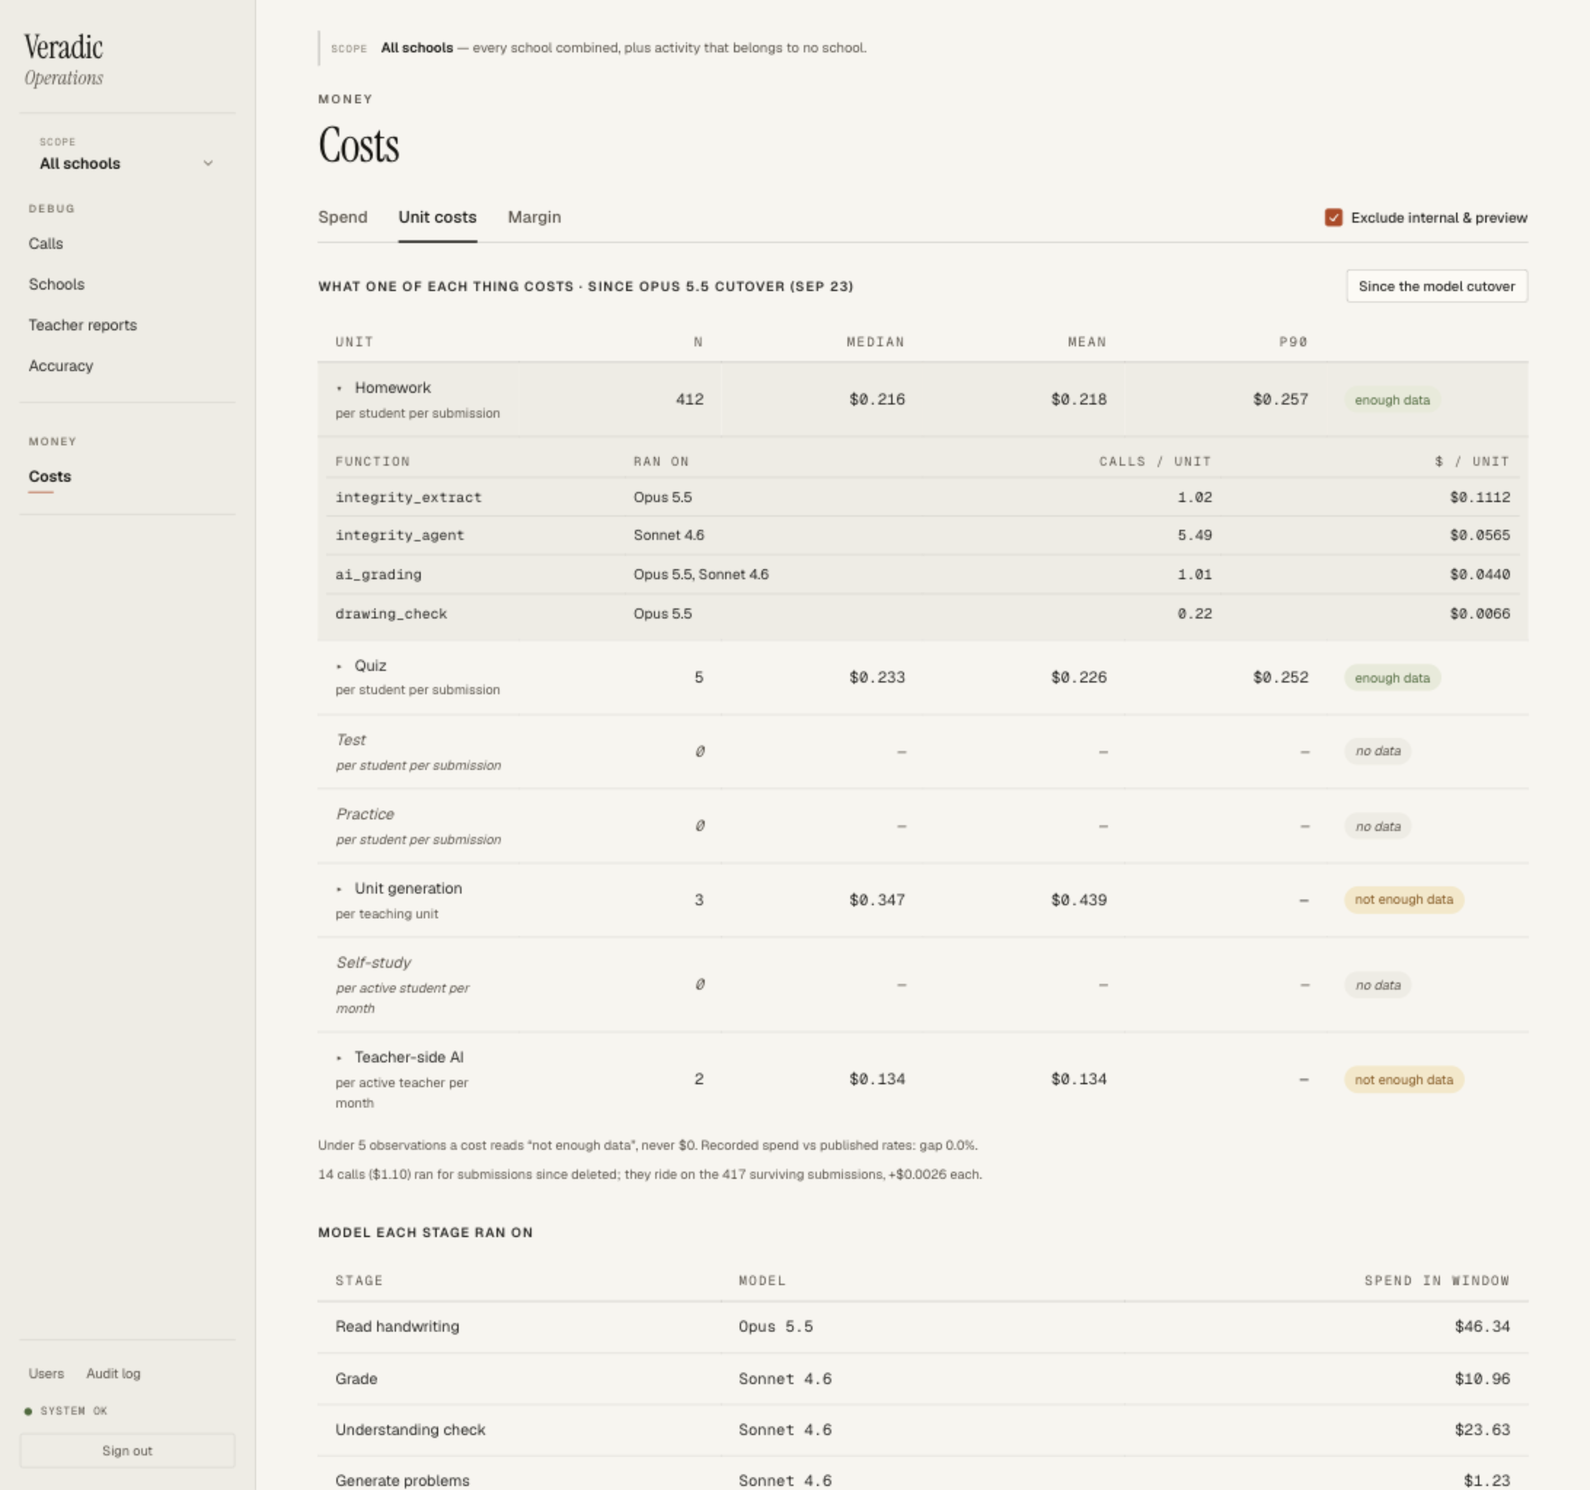
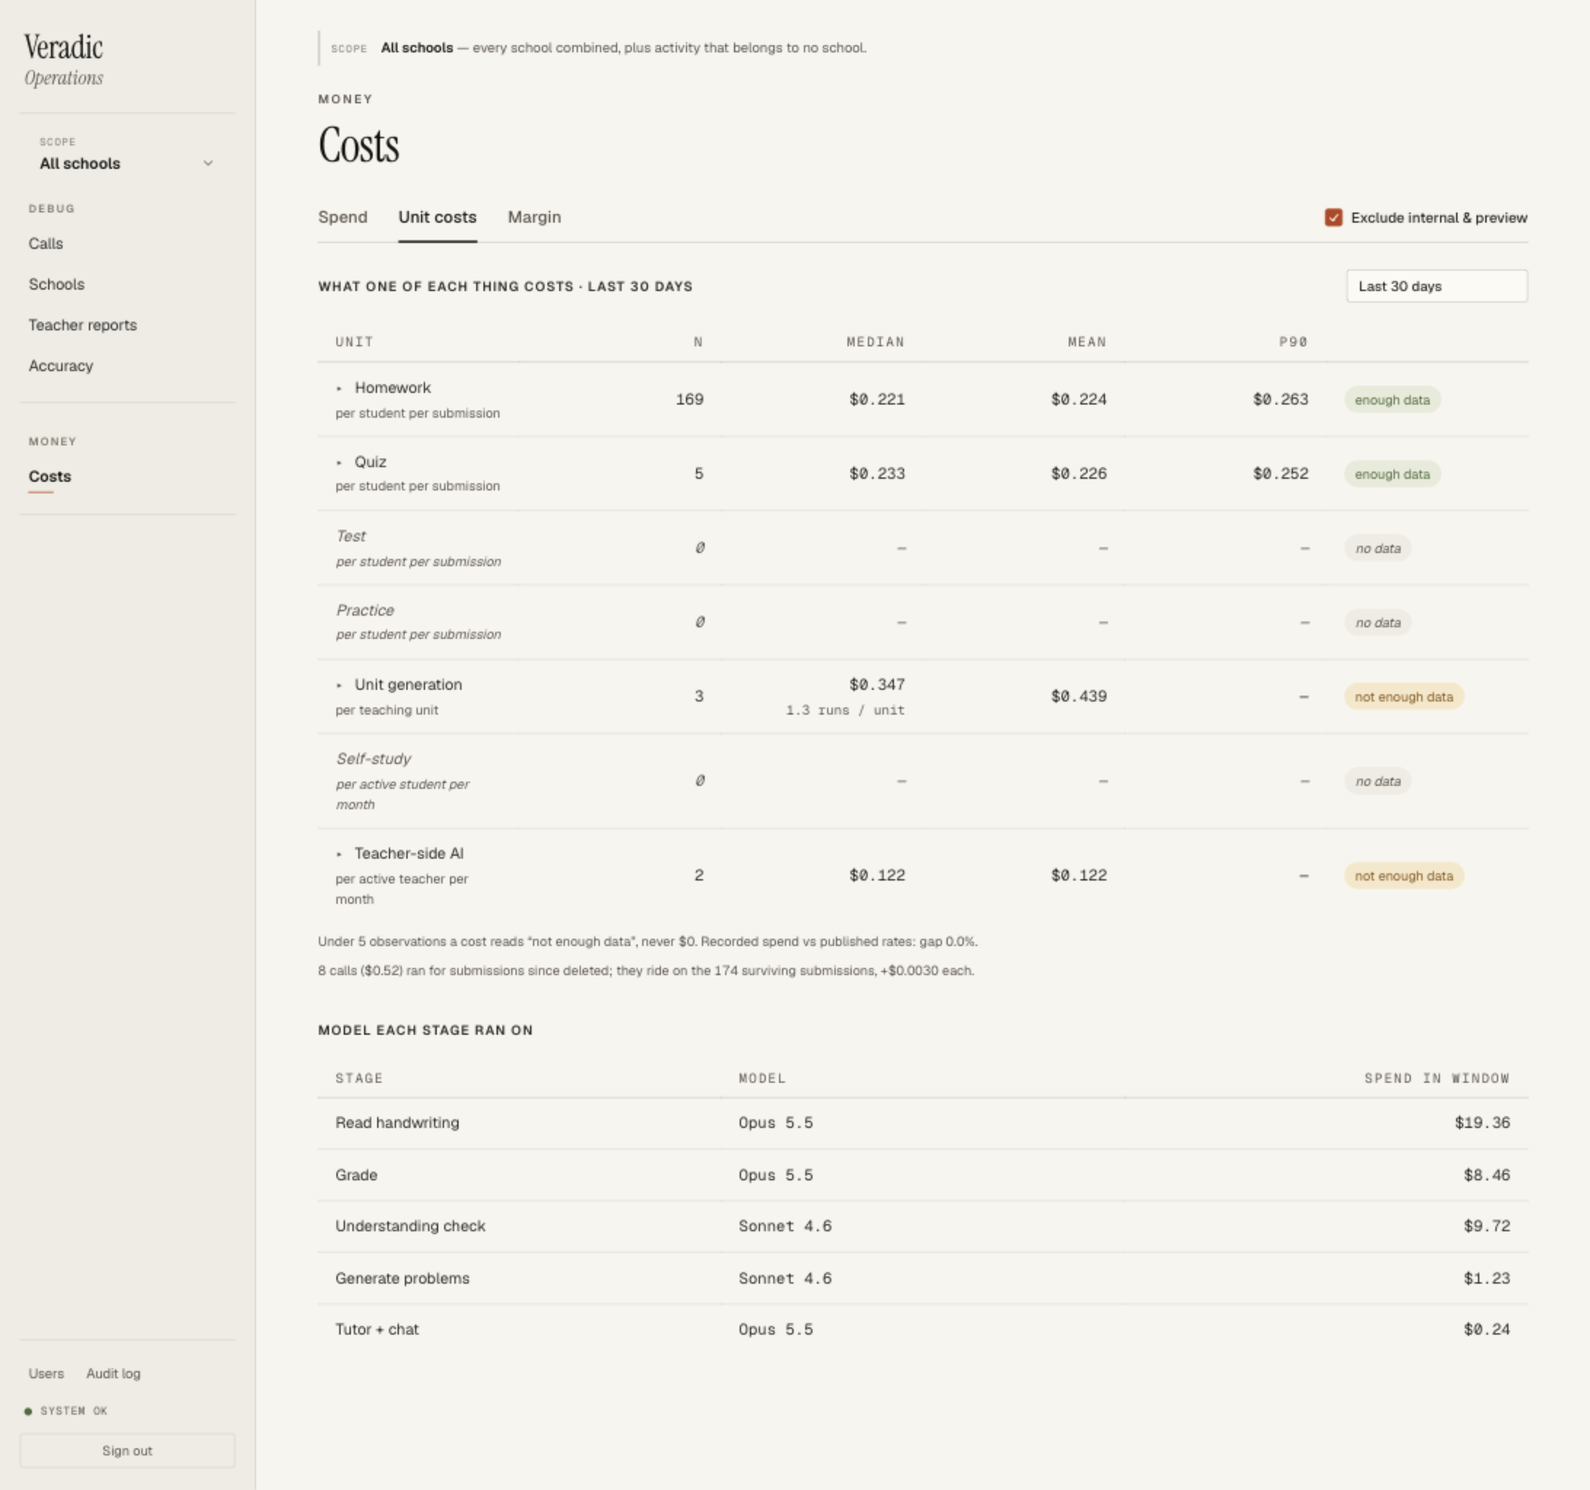
fix(dashboard): review round 1 — say when no rate was measured, thin only where used, fields that clear, a window the picker offers
- a window with no measured submission rates says the margin leaves out
  per-submission cost, rather than showing a quiet near-100%
- the too-few-observations note fires only for lines in use
- number fields keep an emptied or half-typed value until it's a number
- days outside the picker falls back to the default window
- busy cue and heading follow the data on screen during a refetch
- whole students per teacher, which the slider can hold
- generation shows runs per unit next to the median

diff --git a/dashboard/src/pages/costs/useUnitEconomics.ts b/dashboard/src/pages/costs/useUnitEconomics.ts
@@ -12,10 +12,13 @@ export function useUnitEconomics(
   includeInternal: boolean,
   days: string,
 ) {
-  const [data, setData] = useState<UnitEconomicsData | null>(null);
+  // The data and the request it answers, kept together: the heading and
+  // the busy cue read off what's on screen, not what was just asked for.
+  const [loaded, setLoaded] = useState<{ data: UnitEconomicsData; key: string; days: string } | null>(null);
   const [error, setError] = useState<string | null>(null);
   const [attempt, setAttempt] = useState(0);
   const scopeKey = JSON.stringify(scopeParams);
+  const key = `${scopeKey}|${includeInternal}|${days}`;
 
   useEffect(() => {
     let cancelled = false;
@@ -26,28 +29,16 @@ export function useUnitEconomics(
     if (days) q.days = days;
     costsApi
       .unitEconomics(q)
-      .then((d) => { if (!cancelled) { setData(d); setError(null); } })
+      .then((d) => { if (!cancelled) { setLoaded({ data: d, key: `${scopeKey}|${includeInternal}|${days}`, days }); setError(null); } })
       .catch((e: Error) => { if (!cancelled) setError(e.message); });
     return () => { cancelled = true; };
   }, [scopeKey, includeInternal, days, attempt]);
 
-  return { data, error, retry: () => setAttempt((n) => n + 1) };
-}
-
-export const WINDOWS = [
-  { value: "", label: "Since the model cutover" },
-  { value: "7", label: "Last 7 days" },
-  { value: "30", label: "Last 30 days" },
-  { value: "90", label: "Last 90 days" },
-] as const;
-
-/** "since Opus 5.5 cutover (Nov 4)" / "last 30 days" — the section heading's tail. */
-export function windowLabel(d: UnitEconomicsData, days: string, modelLabel: (id: string) => string): string {
-  if (days) return `last ${days} days`;
-  const start = new Date(d.window.start).toLocaleDateString("en-US", {
-    month: "short", day: "numeric", timeZone: "UTC",
-  });
-  return d.window.cutover_model
-    ? `since ${modelLabel(d.window.cutover_model)} cutover (${start})`
-    : `since ${start}`;
+  return {
+    data: loaded?.data ?? null,
+    loadedDays: loaded?.days ?? "",
+    stale: loaded !== null && loaded.key !== key,
+    error,
+    retry: () => setAttempt((n) => n + 1),
+  };
 }

diff --git a/dashboard/src/pages/costs/marginScenario.test.ts b/dashboard/src/pages/costs/marginScenario.test.ts
@@ -6,8 +6,10 @@ import assert from "node:assert/strict";
 import { test } from "node:test";
 import type { CatalogModel, UnitEconomicsData } from "../../lib/costsApi.ts";
 import {
-  DEFAULT_RATE_CARD, cardPriceFor, defaultModels, readRateCard, scenarioDefaults, stageOptions,
+  DEFAULT_RATE_CARD, cardPriceFor, defaultModels, ratesUnmeasured, readRateCard, scenarioDefaults,
+  stageOptions,
 } from "./marginScenario.ts";
+import { windowDays } from "./unitWindows.ts";
 
 const model = (id: string, is_configured = false): CatalogModel => ({
   id, label: id, input_per_mtok: 1, output_per_mtok: 1, is_configured,
@@ -58,7 +60,7 @@ test("homeworks per month start at the measured rate, not a hardcoded 8", () => 
   assert.deepEqual(scenarioDefaults(data({
     submissions_per_student_month: { homework: 1.4, quiz: 0.0326, test: 0, practice: 0 },
   })).quiz, { value: 0.03, measured: true });
-  assert.deepEqual(d.studentsPerTeacher, { value: 30.7, measured: true });
+  assert.deepEqual(d.studentsPerTeacher, { value: 31, measured: true });
 });
 
 test("a short window's rates are not taken as measured", () => {
@@ -112,4 +114,17 @@ test("the card prices by enrollment tier and subject count", () => {
   assert.equal(cardPriceFor(DEFAULT_RATE_CARD, 92, 1), 32);
   assert.equal(cardPriceFor(DEFAULT_RATE_CARD, 300, 2), 22);
   assert.equal(cardPriceFor(DEFAULT_RATE_CARD, 5000, 9), 14);
+});
+
+test("no measured rates says so, and whole students per teacher", () => {
+  assert.equal(ratesUnmeasured(data()), false);
+  assert.equal(ratesUnmeasured(data({ submissions_per_student_month: null })), true);
+  assert.equal(ratesUnmeasured(data({ window_too_short: true })), true);
+  // The slider steps by 1: a 30.67 default it can't hold is lost on touch.
+  assert.equal(scenarioDefaults(data()).studentsPerTeacher.value, 31);
+});
+
+test("a days value the picker doesn't offer reads as the default window", () => {
+  for (const bad of ["abc", "0", "5", "-30", null]) assert.equal(windowDays(bad), "");
+  for (const ok of ["7", "30", "90", ""]) assert.equal(windowDays(ok), ok);
 });

diff --git a/dashboard/src/pages/costs/MarginTab.tsx b/dashboard/src/pages/costs/MarginTab.tsx
@@ -4,7 +4,8 @@ import StatTile from "../../components/StatTile";
 import type { Stage, UnitEconomicsData } from "../../lib/costsApi";
 import { computeMargin, marginAtPrice, type ModelChoice, type Scenario } from "./marginModel";
 import {
-  STAGES, cardPriceFor, defaultModels, readRateCard, scenarioDefaults, stageOptions, type NumKey,
+  STAGES, cardPriceFor, defaultModels, ratesUnmeasured, readRateCard, scenarioDefaults, stageOptions,
+  type NumKey,
 } from "./marginScenario";
 import PricingPanel from "./PricingPanel";
 import { usd } from "./spendFormat";
@@ -18,6 +19,8 @@ import { usd } from "./spendFormat";
  */
 
 interface Slider { key: NumKey; label: string; max: number; step: number }
+
+const RATE_KEYS = ["homework", "quiz", "test", "practice"] as const;
 
 const USAGE: Slider[] = [
   { key: "homework", label: "Homeworks per student per month", max: 12, step: 0.01 },
@@ -79,6 +82,8 @@ export default function MarginTab({ data, modelLabel }: Props) {
   const scenario: Scenario = { ...nums, pricePerStudent: cardPrice, models };
   const r = computeMargin(data, scenario);
   const months = Math.max(scenario.schoolYearMonths, 1);
+  // Until the operator sets a rate themselves.
+  const noRates = ratesUnmeasured(data) && RATE_KEYS.every((k) => params.get(k) === null);
 
   return (
     <div className="costs-margin">
@@ -101,6 +106,15 @@ export default function MarginTab({ data, modelLabel }: Props) {
           sub={`${r.overCap ? "over" : "vs"} the ${usd(scenario.fairUseCap)} cap`}
         />
       </div>
+
+      {noRates && (
+        <div className="costs-note warn" role="note">
+          This window measured no submission rates
+          {data.measured.window_too_short ? " (it's under a week)" : " (no one handed anything in)"}, so usage
+          starts at 0 and the margin leaves out grading, reading and integrity cost. Set the rates below or pick a
+          longer window before reading it.
+        </div>
+      )}
 
       {(r.anyThin || r.anyUnpriced || r.excluded.length > 0) && (
         <div className="costs-note warn" role="note">

diff --git a/dashboard/src/pages/costs/PricingPanel.tsx b/dashboard/src/pages/costs/PricingPanel.tsx
@@ -1,4 +1,5 @@
 import { DEFAULT_RATE_CARD, TIER_LABELS, subjectIndex, tierFor, type NumKey } from "./marginScenario";
+import NumberField from "./NumberField";
 import { usd } from "./spendFormat";
 
 /**
@@ -35,7 +36,7 @@ export default function PricingPanel({
 
   const setRate = (ti: number, si: number, v: string) => {
     const next = rateCard.map((row) => [...row]);
-    next[ti][si] = Number(v) || 0;
+    next[ti][si] = Math.max(Number(v), 0);
     onRates(JSON.stringify(next) === JSON.stringify(DEFAULT_RATE_CARD) ? null : next);
   };
 
@@ -61,12 +62,12 @@ export default function PricingPanel({
                 <td>{TIER_LABELS[ti]}</td>
                 {row.map((v, si) => (
                   <td key={si} className="num">
-                    <input
-                      type="number"
+                    <NumberField
                       aria-label={`${TIER_LABELS[ti]} students, ${si + 1} subject${si ? "s" : ""}`}
                       className={ti === tier && si === subj ? "on" : ""}
+                      min={0}
                       value={v}
-                      onChange={(e) => setRate(ti, si, e.target.value)}
+                      onCommit={(x) => setRate(ti, si, x)}
                     />
                   </td>
                 ))}
@@ -78,10 +79,10 @@ export default function PricingPanel({
           {TERMS.map((t) => (
             <label key={t.key}>
               <span className="costs-caption">{t.label}</span>
-              <input
-                type="number" inputMode="decimal" min={t.key === "subjects" ? 1 : 0} step={t.step}
+              <NumberField
+                inputMode="decimal" min={t.key === "subjects" ? 1 : 0} step={t.step}
                 value={nums[t.key]}
-                onChange={(e) => onNum(t.key, e.target.value)}
+                onCommit={(v) => onNum(t.key, v)}
               />
             </label>
           ))}

diff --git a/dashboard/src/pages/costs/UnitEconomicsTabs.tsx b/dashboard/src/pages/costs/UnitEconomicsTabs.tsx
@@ -2,7 +2,8 @@ import { useSearchParams } from "react-router-dom";
 import ErrorState from "../../components/ErrorState";
 import MarginTab from "./MarginTab";
 import UnitCostsTab from "./UnitCostsTab";
-import { WINDOWS, useUnitEconomics, windowLabel } from "./useUnitEconomics";
+import { useUnitEconomics } from "./useUnitEconomics";
+import { WINDOWS, windowDays, windowLabel } from "./unitWindows";
 
 /**
  * The Unit costs and Margin tabs share one /admin/unit-economics fetch and
@@ -19,8 +20,8 @@ interface Props {
 
 export default function UnitEconomicsTabs({ tab, scopeParams, includeInternal }: Props) {
   const [params, setParams] = useSearchParams();
-  const days = params.get("days") ?? "";
-  const { data, error, retry } = useUnitEconomics(scopeParams, includeInternal, days);
+  const days = windowDays(params.get("days"));
+  const { data, loadedDays, stale, error, retry } = useUnitEconomics(scopeParams, includeInternal, days);
 
   if (error) return <ErrorState message={error} onRetry={retry} />;
   if (!data) return <p className="loading">Loading…</p>;
@@ -36,11 +37,11 @@ export default function UnitEconomicsTabs({ tab, scopeParams, includeInternal }:
   };
 
   return (
-    <div className="costs-section">
+    <div className={`costs-section costs-unit-economics${stale ? " stale" : ""}`} aria-busy={stale}>
       <div className="costs-section-head">
         <h3>
           {tab === "units" ? "What one of each thing costs" : "Margin simulator"} ·{" "}
-          {windowLabel(data, days, modelLabel)}
+          {windowLabel(data, loadedDays, modelLabel)}
         </h3>
         <select aria-label="Window" value={days} onChange={(e) => setDays(e.target.value)}>
           {WINDOWS.map((w) => <option key={w.value} value={w.value}>{w.label}</option>)}

diff --git a/dashboard/src/pages/costs/marginModel.ts b/dashboard/src/pages/costs/marginModel.ts
@@ -138,6 +138,7 @@ export function computeMargin(
   const lines: CostLine[] = [];
   let anyUnpriced = false;
   let anyThin = false;
+  const idle = new Set<string>();
 
   // 1. Per-submission work — paid for every student, every time.
   for (const kind of SUBMISSION_KINDS) {
@@ -152,6 +153,7 @@ export function computeMargin(
     // No measurement at all → contribute nothing, but say so rather
     // than let a missing bucket read as "free".
     const thin = !unit || !unit.sufficient;
+    if (perMonth <= 0) idle.add(`submission:${kind}`);
     if (perMonth > 0 && (unpriced || thin)) {
       anyUnpriced = anyUnpriced || unpriced;
       anyThin = anyThin || thin;
@@ -176,6 +178,7 @@ export function computeMargin(
   const classSize = Math.max(s.studentsPerClass, 1);
   const unitsPerMonth = Math.max(s.unitsPerYear, 0) / schoolYearMonths;
   const genThin = !genUnit || !genUnit.sufficient;
+  if (s.unitsPerYear <= 0) idle.add("generation:unit");
   lines.push({
     key: "generation:unit",
     label: "unit generation",
@@ -230,9 +233,12 @@ export function computeMargin(
   // that is BOTH thin and short would otherwise report only the window.
   // The two need different actions: collect more data, or widen the
   // window.
+  // Only where the line is in use: a quiz rate of 0 with no quizzes
+  // measured costs nothing, and flagging it put the warning on every
+  // scenario, which teaches people to ignore it.
   for (const line of lines) {
     const unit = unitOf(data, line.key);
-    line.thin = Boolean(unit) && unit!.n < data.min_sample;
+    line.thin = !idle.has(line.key) && Boolean(unit) && unit!.n < data.min_sample;
   }
   anyThin = lines.some((l) => l.thin);
   // Derived from the lines, like anyThin. It used to be assigned only

diff --git a/dashboard/src/pages/costs/unitWindows.ts b/dashboard/src/pages/costs/unitWindows.ts
@@ -1,0 +1,30 @@
+/**
+ * The Unit costs / Margin window: which ones the picker offers, and how a
+ * `days` value from the URL is read. Pure, so `npm test` pins it.
+ */
+import type { UnitEconomicsData } from "../../lib/costsApi.ts";
+
+export const WINDOWS = [
+  { value: "", label: "Since the model cutover" },
+  { value: "7", label: "Last 7 days" },
+  { value: "30", label: "Last 30 days" },
+  { value: "90", label: "Last 90 days" },
+] as const;
+
+/** A `days` the picker offers, else the default. `days=abc` or `days=0`
+ *  would 422 and strand the page on an error whose Retry repeats it; an
+ *  unlisted `days=5` would load under a picker showing another label. */
+export function windowDays(raw: string | null): string {
+  return WINDOWS.some((w) => w.value === raw) ? (raw as string) : "";
+}
+
+/** "since Opus 5.5 cutover (Nov 4)" / "last 30 days" — the section heading's tail. */
+export function windowLabel(d: UnitEconomicsData, days: string, modelLabel: (id: string) => string): string {
+  if (days) return `last ${days} days`;
+  const start = new Date(d.window.start).toLocaleDateString("en-US", {
+    month: "short", day: "numeric", timeZone: "UTC",
+  });
+  return d.window.cutover_model
+    ? `since ${modelLabel(d.window.cutover_model)} cutover (${start})`
+    : `since ${start}`;
+}

diff --git a/dashboard/src/pages/costs/marginScenario.ts b/dashboard/src/pages/costs/marginScenario.ts
@@ -39,7 +39,6 @@ export interface Default {
   measured: boolean;
 }
 
-const round1 = (n: number) => Math.round(n * 10) / 10;
 // Rates to the hundredth: a 0.03-a-month quiz habit is measured, not 0.
 const round2 = (n: number) => Math.round(n * 100) / 100;
 
@@ -56,10 +55,18 @@ export function scenarioDefaults(d: UnitEconomicsData): Record<NumKey, Default> 
   out.quiz = rate("quiz");
   out.test = rate("test");
   out.practice = rate("practice");
+  // Whole students: the slider steps by 1, and a 23.4 it can't hold
+  // would be lost the first time anyone touched it.
   out.studentsPerTeacher = m.students_per_teacher
-    ? { value: round1(m.students_per_teacher), measured: true }
+    ? { value: Math.round(m.students_per_teacher), measured: true }
     : { value: FALLBACK_STUDENTS_PER_TEACHER, measured: false };
   return out;
+}
+
+/** No submission rate was measured, so usage starts at 0 and the margin
+ *  leaves out every per-submission cost — say so above the verdict. */
+export function ratesUnmeasured(d: UnitEconomicsData): boolean {
+  return d.measured.window_too_short || d.measured.submissions_per_student_month === null;
 }
 
 /** The model each stage starts on: what ran, else what's configured now. */

diff --git a/dashboard/src/pages/costs/UnitCostsTab.tsx b/dashboard/src/pages/costs/UnitCostsTab.tsx
@@ -93,7 +93,17 @@ export default function UnitCostsTab({ data, modelLabel }: Props) {
                     <span className="costs-caption">{u.denominator}</span>
                   </td>
                   <td className="num">{u.n.toLocaleString()}</td>
-                  <td className="num">{cost(u.cost_median)}</td>
+                  <td className="num">
+                    {cost(u.cost_median)}
+                    {/* A unit's cost is every run for it, regenerations
+                        included: say how many, so a regen-heavy unit
+                        reads as one rather than as a pricey unit. */}
+                    {u.runs_per_unit != null && (
+                      <span className="costs-caption">
+                        {u.runs_per_unit.toFixed(1)} run{u.runs_per_unit === 1 ? "" : "s"} / unit
+                      </span>
+                    )}
+                  </td>
                   <td className="num">{cost(u.cost_mean)}</td>
                   <td className="num">{u.n < data.min_sample ? "—" : cost(u.cost_p90)}</td>
                   <td><Sufficiency u={u} minSample={data.min_sample} /></td>

diff --git a/dashboard/src/pages/costs/NumberField.tsx b/dashboard/src/pages/costs/NumberField.tsx
@@ -1,0 +1,30 @@
+import { useState, type InputHTMLAttributes } from "react";
+
+/**
+ * A number input whose value lives in the URL. While the operator is mid-
+ * edit (the field empty, or "1." on the way to "1.5") it shows what they
+ * typed and commits only a whole number; on blur it shows the committed
+ * value again. A plain controlled input snapped an emptied field straight
+ * back to its default, so backspacing 92 and typing 3 gave 923.
+ */
+type Props = Omit<InputHTMLAttributes<HTMLInputElement>, "value" | "onChange"> & {
+  value: number;
+  onCommit: (v: string) => void;
+};
+
+export default function NumberField({ value, onCommit, onBlur, ...rest }: Props) {
+  const [draft, setDraft] = useState<string | null>(null);
+  return (
+    <input
+      type="number"
+      {...rest}
+      value={draft ?? String(value)}
+      onChange={(e) => {
+        const v = e.target.value;
+        setDraft(v);
+        if (v.trim() !== "" && Number.isFinite(Number(v))) onCommit(v);
+      }}
+      onBlur={(e) => { setDraft(null); onBlur?.(e); }}
+    />
+  );
+}

diff --git a/dashboard/src/pages/costs/marginModel.test.ts b/dashboard/src/pages/costs/marginModel.test.ts
@@ -360,3 +360,15 @@ test("a well-sampled short-window row is not called thin", () => {
   assert.ok(line);
   assert.equal(line!.thin, false, "50 observations is not a thin sample");
 });
+
+// ── The "too few observations" note is for lines in use ────────────────
+
+test("an unmeasured kind used at a rate of 0 does not raise the thin warning", () => {
+  // Only homework in use (and well measured, as are both residuals);
+  // quiz, test and practice have n=0 but cost nothing at 0 a month.
+  const d = data();
+  d.units = d.units.map((u) => (u.kind.startsWith("residual:") ? unit(u.kind) : u));
+  const r = computeMargin(d, scenario({ quiz: 0 }));
+  assert.equal(r.lines.find((l) => l.key === "submission:quiz")!.thin, false);
+  assert.equal(r.anyThin, false, "a warning on every scenario gets ignored");
+});

diff --git a/dashboard/src/lib/costsApi.ts b/dashboard/src/lib/costsApi.ts
@@ -105,6 +105,8 @@ export interface UnitCost {
   cost_mean: number | null;
   cost_p90: number | null;
   cost_total: number;
+  /** generation:unit only — generation runs per unit, regenerations included. */
+  runs_per_unit?: number | null;
   sufficient: boolean;
   /** Too short a window to read a per-month rate from. */
   window_too_short: boolean;
@@ -134,6 +136,7 @@ export interface Measured {
   active_students: number;
   submissions: Record<SubmissionKind, number>;
   /** null when no student submitted — unknown, not zero. */
+  /** null when no one handed anything in — unknown, not four zeros. */
   submissions_per_student_month: Record<SubmissionKind, number> | null;
   teachers: number;
   students: number;
